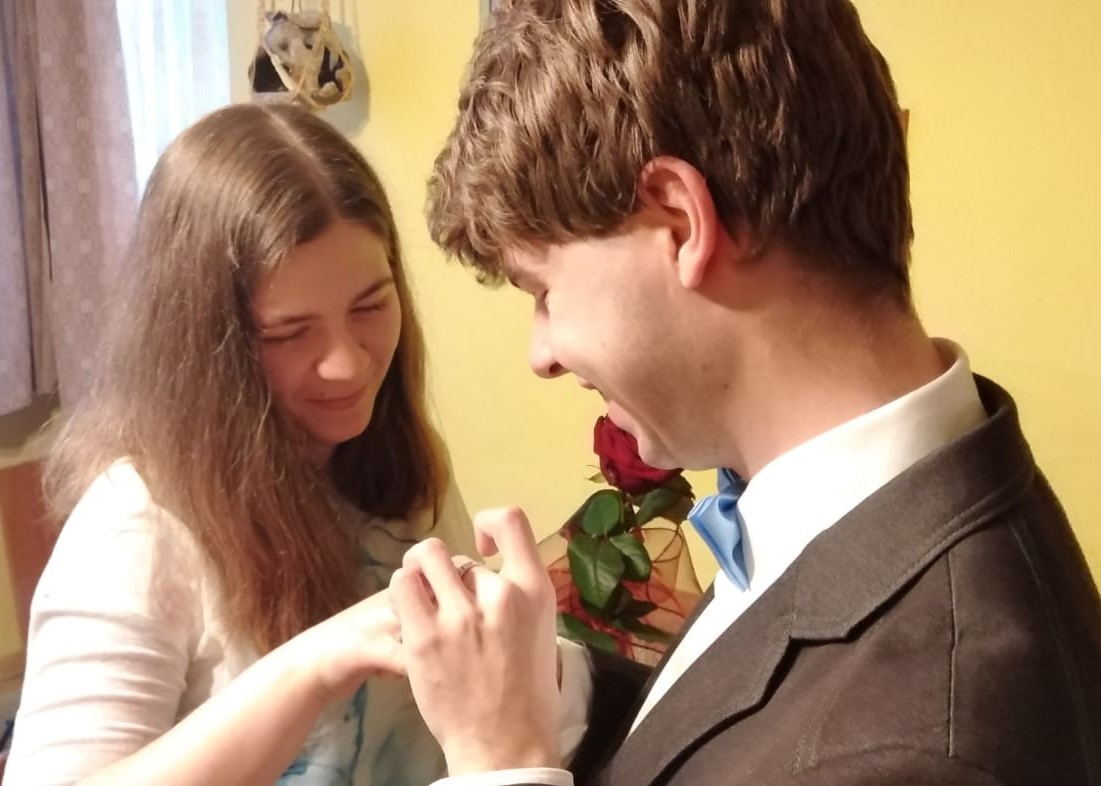
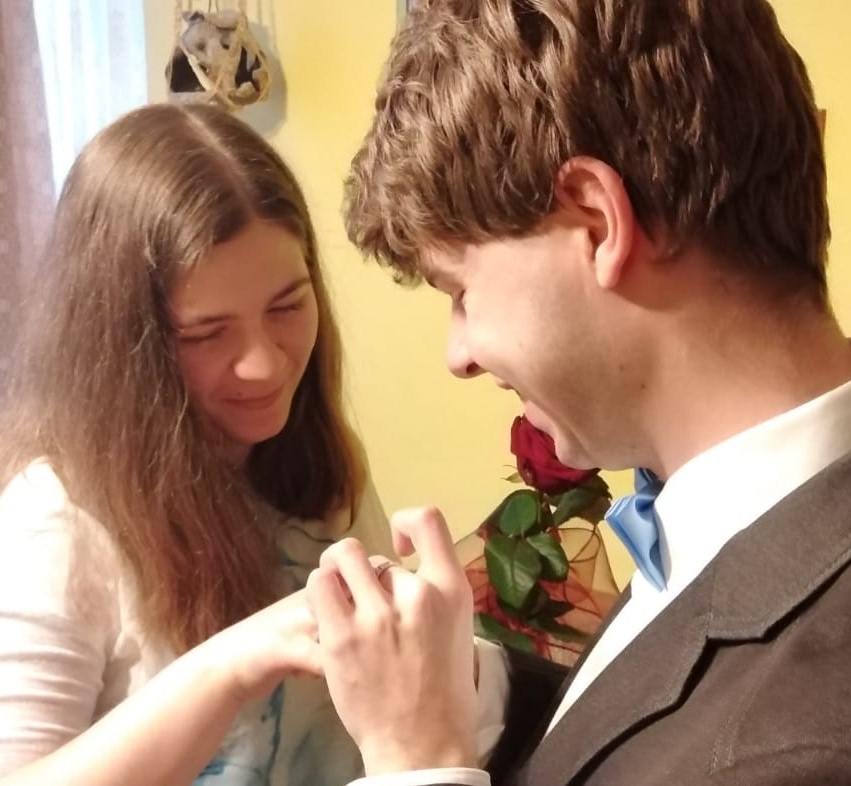
Resized some pictures. Added a script that empties the input boxes after clicking on them

diff --git a/booking.js b/booking.js
@@ -1,10 +1,10 @@
+var inputs = document.getElementsByTagName('input');
+inputs = [].slice.call(inputs); // Arrayify the HTMLCollection (return of getElementsByTagName)
+inputs.pop(); // Remove the Submit button from the array
+
 /*This is called after clicking the sumbit button; it gets the input values from the textboxes and returns them*/
 function getBookInput() {
   let output = '';
-  var inputs = document.getElementsByTagName('input');
-  inputs = [].slice.call(inputs); // Arrayify the HTMLCollection (return of getElementsByTagName)
-  inputs.pop(); // Remove the Submit button from the array
-
   for (var i = 0; i < inputs.length; i++) {
     let data = inputs[i].value;
     output += data + '; ';
@@ -28,4 +28,11 @@ function sendBookRequest() {
 
   let output = JSON.stringify(parameters);
   request.send(output);
+};
+
+/*This empties the textboxes after clicking on them*/
+for (i = 0; i < inputs.length; i++) {
+  inputs[i].addEventListener('focus', function() {
+    this.value = '';
+  });
 };
